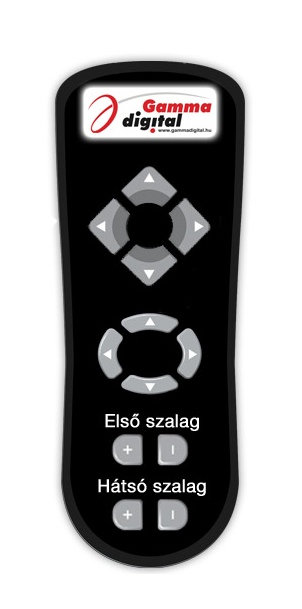
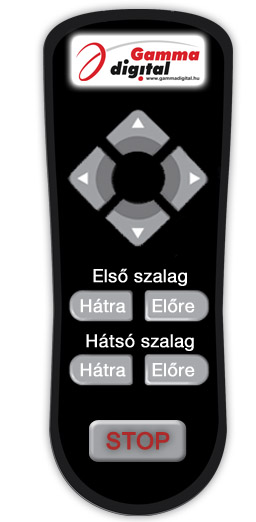
avg taviranyito fejlesztese
git-svn-id: svn+ssh://vertigoweb.hu/repo/trunk/www/mesh-owners-site@1207 c8a1e018-962f-4fc7-b34a-25f67a7ad721

diff --git a/http/staticview/tester.html b/http/staticview/tester.html
@@ -234,16 +234,6 @@
 			}
 		</script>
 		<style>
-			/********/
-			.takaro {
-				position: absolute;
-				background-color: #000;
-				height: 86px;
-				width: 111px;
-				margin-left: 93px;
-				margin-top: 312px;
-			}
-			/********/
 			.clear {
 				clear: both;
 				float: none;
@@ -252,59 +242,58 @@
 				position:  absolute;
 			}
 			.up {
-				margin-top: 169px;
-				margin-left: 127px;
-				width: 44px;
-				height: 34px;
+				margin: 111px 0 0 108px;
+				width: 59px;
+				height: 42px;
 				cursor: pointer;
 			}
 			.down {
-				margin-top: 250px;
-				margin-left: 127px;
-				width: 44px;
-				height: 34px;
+				margin: 200px 0 0 108px;
+				width: 58px;
+				height: 45px;
 				cursor: pointer;
 			}
 			.left {
-				margin-top: 202px;
-				margin-left: 92px;
-				width: 34px;
-				height: 49px;
+				margin: 150px 0 0 70px;
+				width: 43px;
+				height: 58px;
 				cursor: pointer;
 			}
 			.right {
-				margin-top: 202px;
-				margin-left: 173px;
-				width: 34px;
-				height: 49px;
+				margin: 148px 0 0 162px;
+				width: 44px;
+				height: 60px;
 				cursor: pointer;
 			}
 			.tape_1 {
-				margin-top: 434px;
-				margin-left: 111px;
+				margin-top: 289px;
 			}
 			.tape_2 {
-				margin-top: 500px;
-				margin-left: 111px;
+				margin-top: 354px;
 			}
 			.tape_left {
-				margin-left: 112px;
-				width: 31px;
+				margin-left: 70px;
+				width: 62px;
 				height: 31px;
 				cursor: pointer;
 			}
 			.tape_right {
-				margin-left: 158px;
-				width: 31px;
+				margin-left: 145px;
+				width: 64px;
 				height: 31px;
 				cursor: pointer;
 			}
 			#log {
-				margin-left: 350px !important;
-				margin-top: 50px;
+				margin: 10px 0 0 300px ;
 				width: 800px;
 				height: 500px;
 				float: left;
+			}
+			.stop {
+				margin: 420px 0 0 89px;
+				width: 98px;
+				height: 43px;
+				cursor: pointer;
 			}
 		</style>
 	</head>
@@ -336,18 +325,18 @@
 
 		<div class="controller">
 			<div class="absolute"><img src="images/avg_taviranyito_0_1.jpg" alt="AVG control panel" /></div>
-			<div class="absolute up" onmousedown="avgMoveHandler('forward')" onclick="avgMoveHandler('stop')">&nbsp;</div>
-			<div class="absolute down" onmousedown="avgMoveHandler('backward')" onclick="avgMoveHandler('stop')">&nbsp;</div>
-			<div class="absolute left" onmousedown="avgMoveHandler('left')" onclick="avgMoveHandler('stop')">&nbsp;</div>
-			<div class="absolute right" onmousedown="avgMoveHandler('right')" onclick="avgMoveHandler('stop')">&nbsp;</div>
+			<div title="Előre" class="absolute up" onmousedown="avgMoveHandler('forward')" onclick="avgMoveHandler('stop')">&nbsp;</div>
+			<div title="Hátra" class="absolute down" onmousedown="avgMoveHandler('backward')" onclick="avgMoveHandler('stop')">&nbsp;</div>
+			<div title="Jobbra" class="absolute left" onmousedown="avgMoveHandler('left')" onclick="avgMoveHandler('stop')">&nbsp;</div>
+			<div title="Balra" class="absolute right" onmousedown="avgMoveHandler('right')" onclick="avgMoveHandler('stop')">&nbsp;</div>
 
-			<div class="takaro"></div>
+			<div title="Hátra" class="absolute tape_1 tape_left" onmousedown="avgTapeMoveHandler(1,'-1')" onclick="avgTapeMoveHandler(1,'0')">&nbsp;</div>
+			<div title="Előre" class="absolute tape_1 tape_right" onmousedown="avgTapeMoveHandler(1,'+1')" onclick="avgTapeMoveHandler(1,'0')">&nbsp;</div>
 
-			<div class="absolute tape_1 tape_left" onmousedown="avgTapeMoveHandler(1,'-1')" onclick="avgTapeMoveHandler(1,'0')">&nbsp;</div>
-			<div class="absolute tape_1 tape_right" onmousedown="avgTapeMoveHandler(1,'+1')" onclick="avgTapeMoveHandler(1,'0')">&nbsp;</div>
+			<div title="Hátra" class="absolute tape_2 tape_left" onmousedown="avgTapeMoveHandler(2,'-1')" onclick="avgTapeMoveHandler(2,'0')">&nbsp;</div>
+			<div title="Előre" class="absolute tape_2 tape_right" onmousedown="avgTapeMoveHandler(2,'+1')" onclick="avgTapeMoveHandler(2,'0')">&nbsp;</div>
 
-			<div class="absolute tape_2 tape_left" onmousedown="avgTapeMoveHandler(2,'-1')" onclick="avgTapeMoveHandler(2,'0')">&nbsp;</div>
-			<div class="absolute tape_2 tape_right" onmousedown="avgTapeMoveHandler(2,'+1')" onclick="avgTapeMoveHandler(2,'0')">&nbsp;</div>
+			<div class="absolute stop" onclick="avgMoveHandler('stop');avgTapeMoveHandler(1,'0');avgTapeMoveHandler(2,'0');">&nbsp;</div>
 		</div>
 		<textarea id="log" style=""></textarea>
 	</body>
